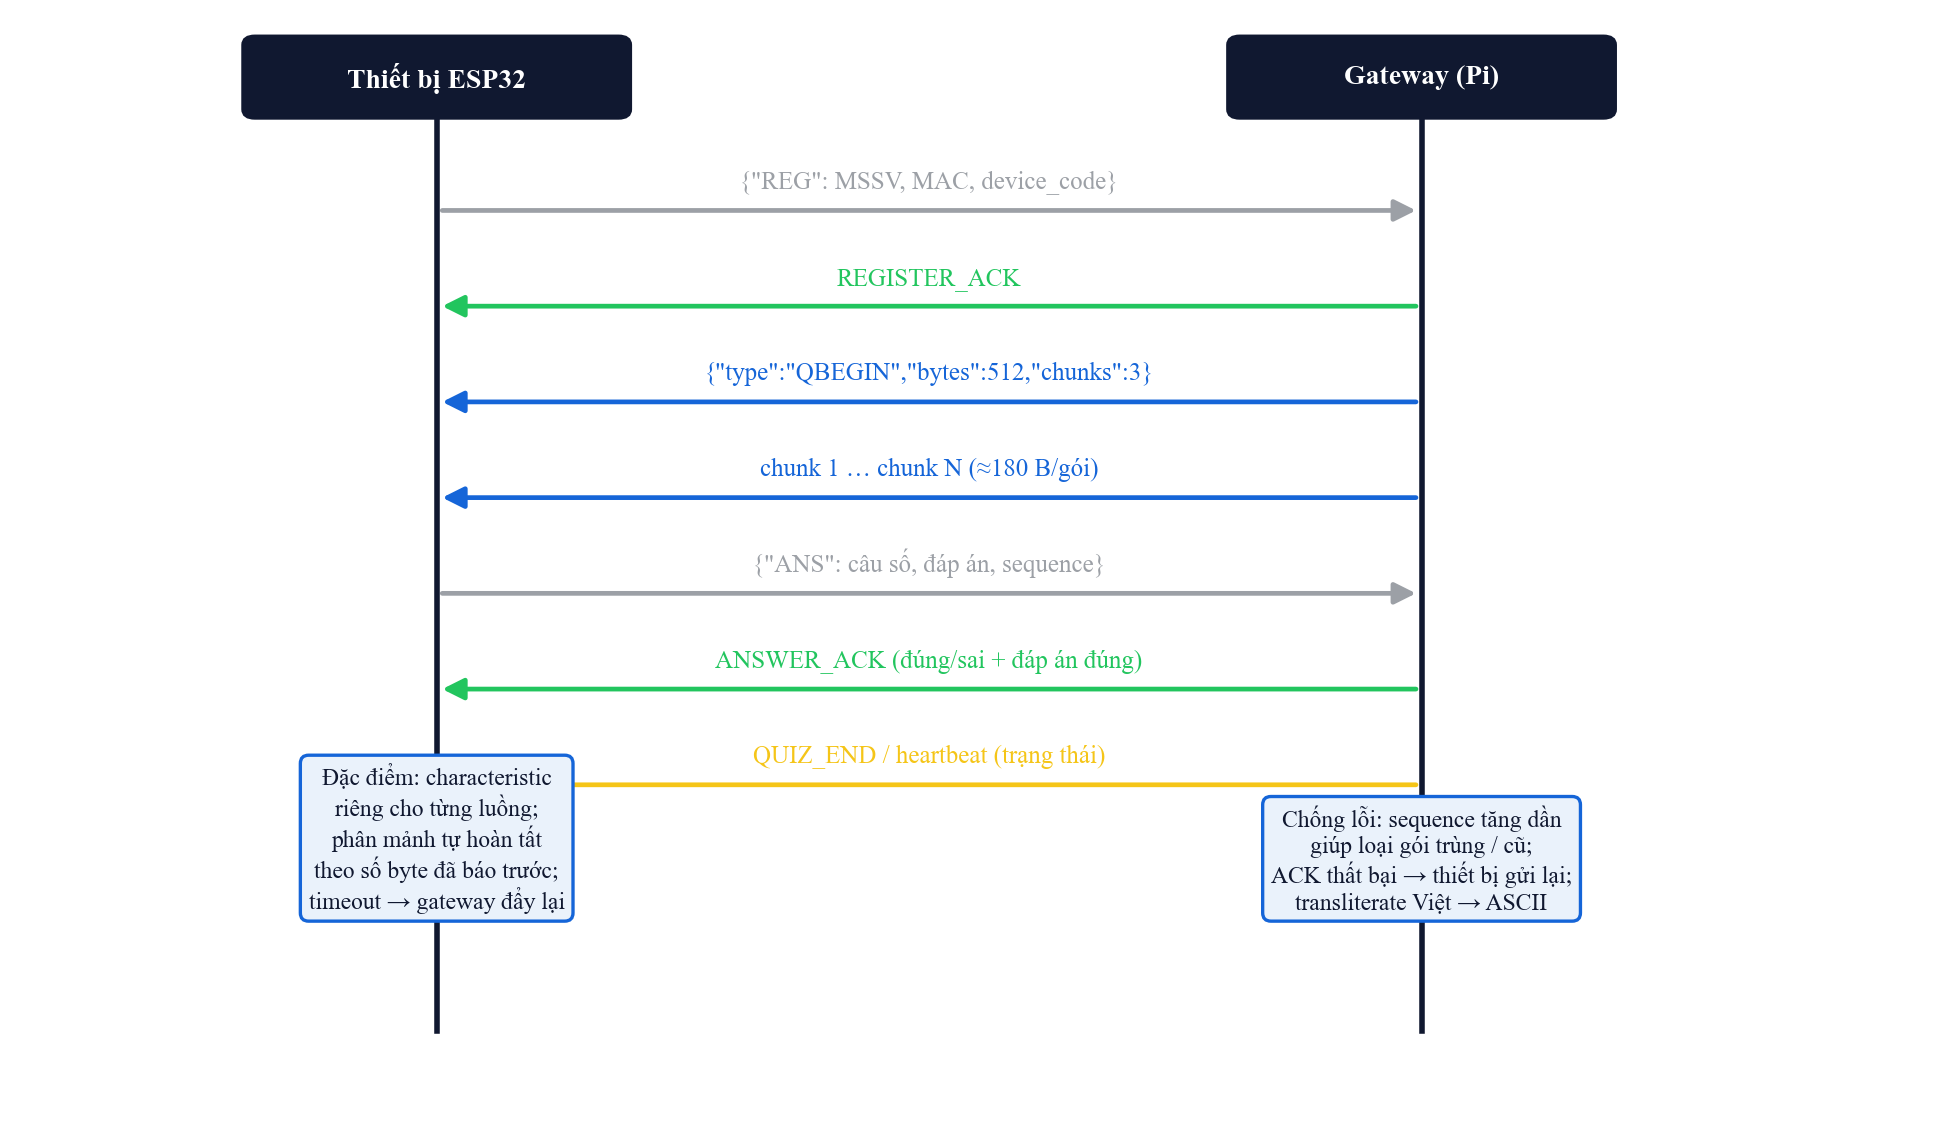
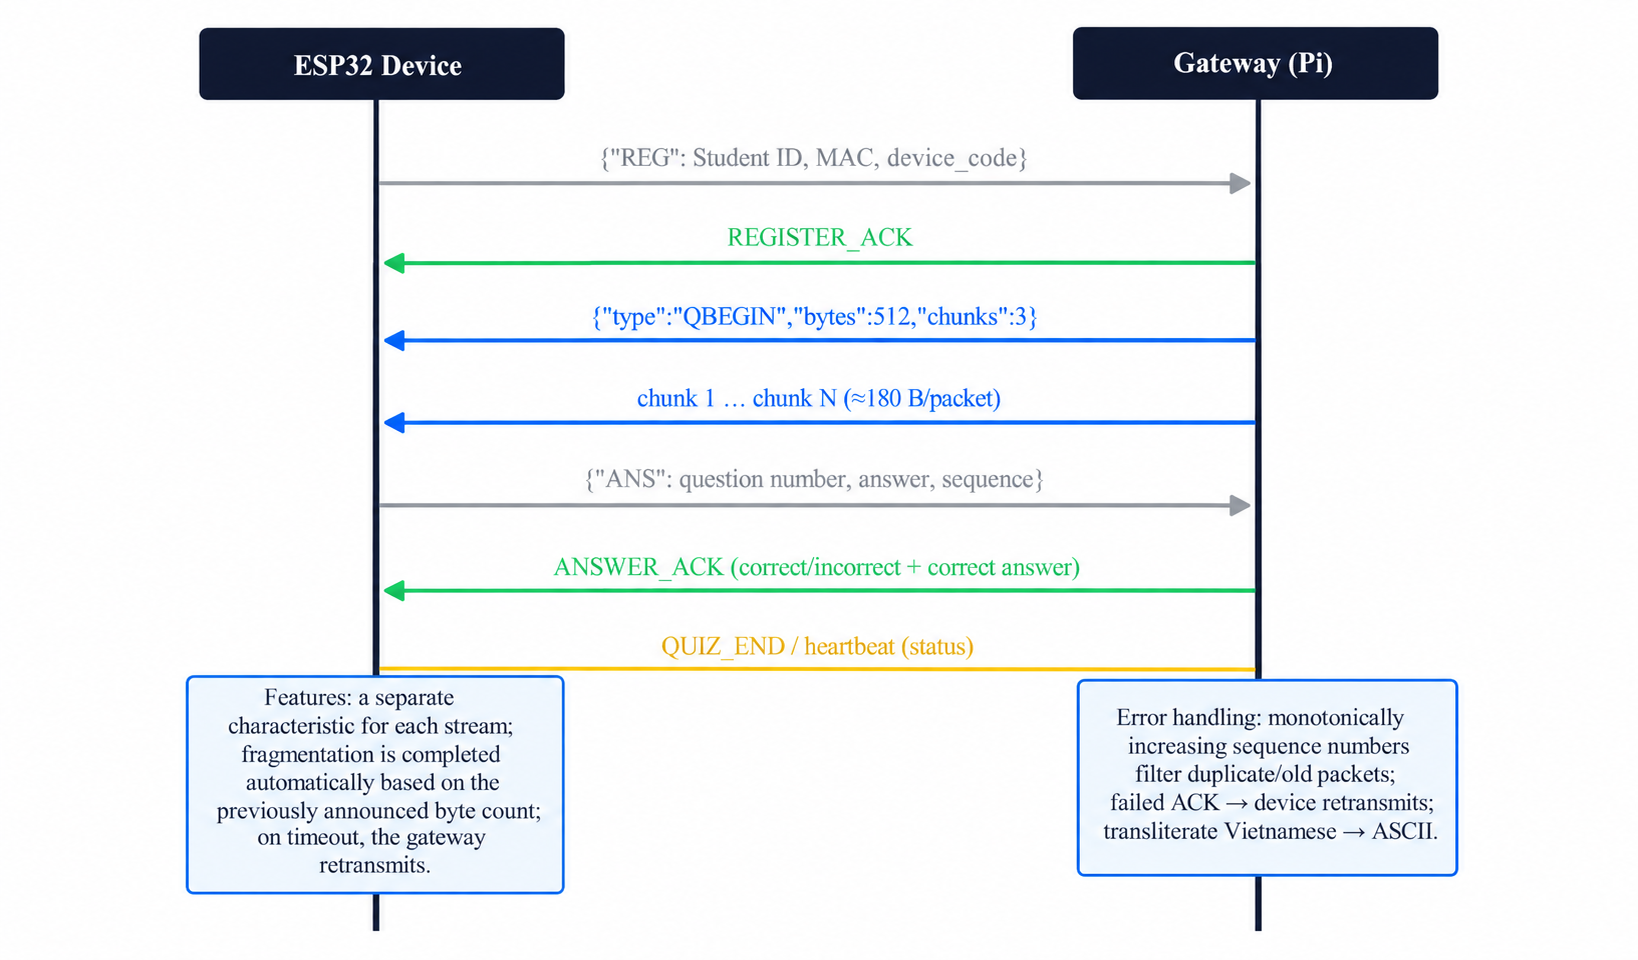
docs: use English-language figures for architecture, BLE protocol, and firmware state machine

Changed region(s): [[0.1245, 0.0, 0.9029, 0.9688], [0.6227, 0.0312, 0.685, 0.125], [0.3114, 0.0312, 0.3425, 0.125]]

diff --git a/README.md b/README.md
@@ -87,7 +87,7 @@ monotonic sequence number; the backend accepts only the newest answer per
 (student, question) pair and detects duplicate delivery.
 
 <p align="center">
-  <img src="docs/img/ble-protocol.png" alt="BLE protocol" width="560"/>
+  <img src="docs/img/ble-protocol.png" alt="BLE protocol" width="720"/>
 </p>
 
 ## Hardware
@@ -118,7 +118,7 @@ monotonic sequence number; the backend accepts only the newest answer per
   TFT, and a boot splash with the university logo.
 
 <p align="center">
-  <img src="docs/img/state-machine.png" alt="Firmware state machine" width="520"/>
+  <img src="docs/img/state-machine.png" alt="Firmware state machine" width="720"/>
 </p>
 
 ## Server
